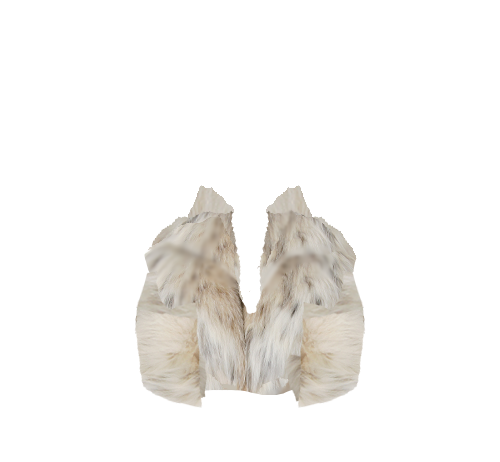
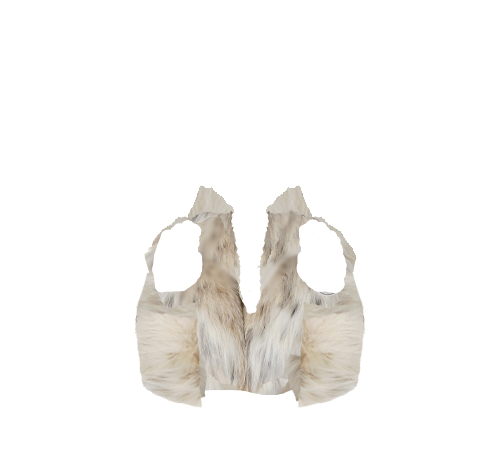
allfours + hide woodencuffs

Changed region(s): [[0.3, 0.4545, 0.42, 0.6364], [0.57, 0.4545, 0.69, 0.6364]]

diff --git a/BondageClub/Assets/Female3DCG/Female3DCG.js b/BondageClub/Assets/Female3DCG/Female3DCG.js
@@ -2682,7 +2682,7 @@ var AssetFemale3DCG = [
 				Block: ["ItemHands", "ItemVulva", "ItemButt", "ItemVulvaPiercings", "ItemNipplesPiercings"], AllowActivePose: ["Kneel"] },
 			{ Name: "PantyhoseBodyOpen", Fetish: ["Nylon"], Value: 75, Priority: 15, Difficulty: 3, SelfBondage: 4, Time: 30, RemoveTime: 20, Random: false, BuyGroup: "PantyhoseBody", AllowPose: ["Kneel"], SetPose: ["BackElbowTouch", "LegsClosed"], Effect: ["Block", "Prone", "Slow"],
 				Prerequisite: ["NotHogtied", "NotMounted", "NoFeetSpreader"], Hide: ["Cloth", "ClothLower", "Suit", "SuitLower"], Block: ["ItemHands",  "ItemNipplesPiercings"], AllowActivePose: ["Kneel"] },
-			{ Name: "WoodenCuffs", Value: 30, Difficulty: 2, Time: 5, Random: false, AllowLock: true, Audio: "WoodenCuffs", BuyGroup: "WoodenCuffs", SetPose: ["BaseUpper"], Effect: ["Block", "Prone", "NotSelfPickable"] },
+			{ Name: "WoodenCuffs", Value: 30, Difficulty: 2, Time: 5, Random: false, AllowLock: true, Audio: "WoodenCuffs", BuyGroup: "WoodenCuffs", SetPose: ["BaseUpper"], Effect: ["Block", "Prone", "NotSelfPickable"], HideItem: ["ClothFurCoat"] },
 			{
 				Name: "InflatableStraightLeotard", ParentGroup: null, Fetish: ["Latex"], Value: 150, Top: 137 ,Left: 3, Difficulty: 10, SelfBondage: 6, Time: 30, RemoveTime: 50, AllowLock: true, Prerequisite: ["NotSuspended", "AllFours", "NotHogtied", "NotYoked", "NotMounted", "NotKneelingSpread"],
 				Hide: ["Cloth", "Suit", "ClothLower", "ClothAccessory", "ItemButt", "TailStraps", "Wings", "ItemNipplesPiercings", "ItemVulva", "ItemVulvaPiercings", "ItemPelvis", "ItemTorso"],
